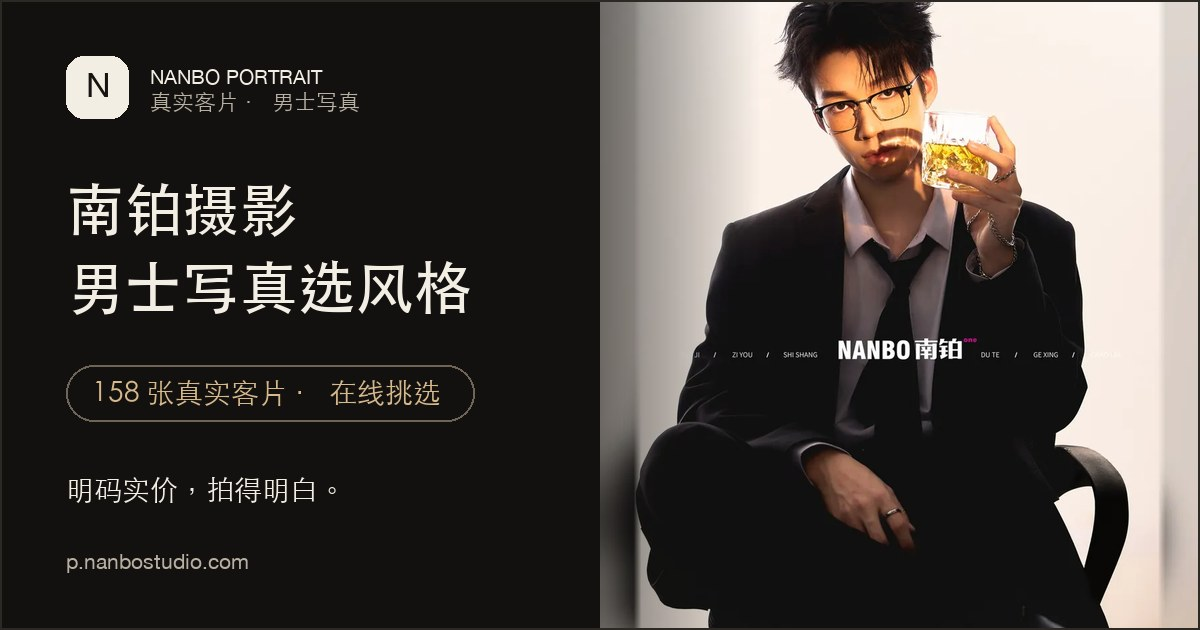
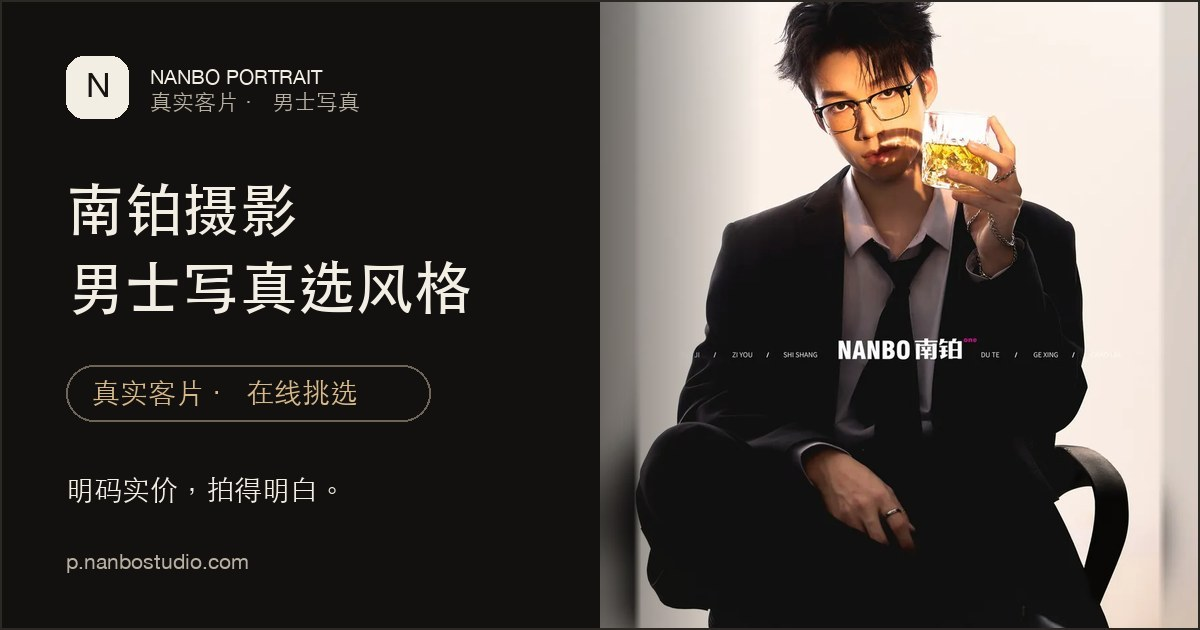
fix: remove changing photo count from share card

Changed region(s): [[0.0617, 0.573, 0.37, 0.6937]]

diff --git a/docs/p/index.html b/docs/p/index.html
@@ -9,29 +9,29 @@
     <meta property="og:type" content="website" />
     <meta property="og:site_name" content="南铂摄影" />
     <meta property="og:locale" content="zh_CN" />
-    <meta property="og:title" content="南铂摄影｜158 张真实客片选风格" />
+    <meta property="og:title" content="南铂摄影｜真实客片选风格" />
     <meta property="og:description" content="浏览真实男士客片，挑选喜欢的场景与主题，生成你的拍摄需求。" />
     <meta property="og:url" content="https://p.nanbostudio.com/" />
-    <meta property="og:image" content="https://p.nanbostudio.com/projects/portfolio-v2/share-card.jpg?v=pv2-af6f3256092a" />
-    <meta property="og:image:secure_url" content="https://p.nanbostudio.com/projects/portfolio-v2/share-card.jpg?v=pv2-af6f3256092a" />
+    <meta property="og:image" content="https://p.nanbostudio.com/projects/portfolio-v2/share-card.jpg?v=pv2-564a3292a6c0" />
+    <meta property="og:image:secure_url" content="https://p.nanbostudio.com/projects/portfolio-v2/share-card.jpg?v=pv2-564a3292a6c0" />
     <meta property="og:image:type" content="image/jpeg" />
     <meta property="og:image:width" content="1200" />
     <meta property="og:image:height" content="630" />
     <meta property="og:image:alt" content="南铂摄影男士写真真实客片选风格" />
     <meta name="twitter:card" content="summary_large_image" />
-    <meta name="twitter:title" content="南铂摄影｜158 张真实客片选风格" />
+    <meta name="twitter:title" content="南铂摄影｜真实客片选风格" />
     <meta name="twitter:description" content="浏览真实男士客片，挑选喜欢的场景与主题。" />
-    <meta name="twitter:image" content="https://p.nanbostudio.com/projects/portfolio-v2/share-card.jpg?v=pv2-af6f3256092a" />
-    <meta itemprop="name" content="南铂摄影｜158 张真实客片选风格" />
+    <meta name="twitter:image" content="https://p.nanbostudio.com/projects/portfolio-v2/share-card.jpg?v=pv2-564a3292a6c0" />
+    <meta itemprop="name" content="南铂摄影｜真实客片选风格" />
     <meta itemprop="description" content="浏览真实男士客片，挑选喜欢的场景与主题。" />
-    <meta itemprop="image" content="https://p.nanbostudio.com/projects/portfolio-v2/share-card.jpg?v=pv2-af6f3256092a" />
-    <meta name="nbo-build-version" content="pv2-af6f3256092a" />
+    <meta itemprop="image" content="https://p.nanbostudio.com/projects/portfolio-v2/share-card.jpg?v=pv2-564a3292a6c0" />
+    <meta name="nbo-build-version" content="pv2-564a3292a6c0" />
     <title>南铂摄影｜男士写真选风格</title>
     <link rel="canonical" href="https://wdmm630202.github.io/nbo-smart-system/p/" />
-    <link rel="image_src" href="https://p.nanbostudio.com/projects/portfolio-v2/share-card.jpg?v=pv2-af6f3256092a" />
+    <link rel="image_src" href="https://p.nanbostudio.com/projects/portfolio-v2/share-card.jpg?v=pv2-564a3292a6c0" />
     <link rel="icon" href="favicon.svg" type="image/svg+xml" />
-    <link rel="preload" as="image" href="../portfolio/assets/photos/featured/photo-137.webp?v=pv2-af6f3256092a" type="image/webp" fetchpriority="high" />
-    <link rel="stylesheet" href="styles.css?v=pv2-af6f3256092a" />
+    <link rel="preload" as="image" href="../portfolio/assets/photos/featured/photo-137.webp?v=pv2-564a3292a6c0" type="image/webp" fetchpriority="high" />
+    <link rel="stylesheet" href="styles.css?v=pv2-564a3292a6c0" />
   </head>
   <body>
     <div class="app-shell">
@@ -45,7 +45,7 @@
 
       <main>
         <section class="campaign" aria-labelledby="page-title">
-          <img src="../portfolio/assets/photos/featured/photo-137.webp?v=pv2-af6f3256092a" width="900" height="1200" alt="南铂摄影代表性男士写真客片" fetchpriority="high" />
+          <img src="../portfolio/assets/photos/featured/photo-137.webp?v=pv2-564a3292a6c0" width="900" height="1200" alt="南铂摄影代表性男士写真客片" fetchpriority="high" />
           <div class="campaign-shade"></div>
           <div class="campaign-copy">
             <p>MEN'S PORTRAIT · 2026</p>
@@ -75,11 +75,11 @@
           </header>
           <div class="style-rail">
             <button class="style-card" type="button" data-scene-link="indoor">
-              <img src="../portfolio/assets/photos/thumbs/photo-137.webp?v=pv2-af6f3256092a" alt="商务质感男士写真" loading="lazy" />
+              <img src="../portfolio/assets/photos/thumbs/photo-137.webp?v=pv2-564a3292a6c0" alt="商务质感男士写真" loading="lazy" />
               <span><small>01 / INDOOR · 120 PHOTOS</small><strong>内景主题</strong><em>灯光可控 · 造型完整 · 13 个主题</em></span>
             </button>
             <button class="style-card" type="button" data-scene-link="outdoor">
-              <img src="../portfolio/assets/photos/thumbs/photo-111.webp?v=pv2-af6f3256092a" alt="城市机车外景男士写真" loading="lazy" />
+              <img src="../portfolio/assets/photos/thumbs/photo-111.webp?v=pv2-564a3292a6c0" alt="城市机车外景男士写真" loading="lazy" />
               <span><small>02 / OUTDOOR · 38 PHOTOS</small><strong>外景主题</strong><em>环境真实 · 行走自然 · 10 个主题</em></span>
             </button>
           </div>
@@ -105,7 +105,7 @@
             <h2>先凭感觉选，<br />我们再帮你落地。</h2>
             <span>你不需要懂摄影术语。喜欢哪张就点爱心，剩下的由南铂结合脸型、身材和使用场景来调整。</span>
           </div>
-          <div class="fit-photo"><img src="../portfolio/assets/photos/thumbs/photo-139.webp?v=pv2-af6f3256092a" alt="南铂男士写真示例" loading="lazy" /></div>
+          <div class="fit-photo"><img src="../portfolio/assets/photos/thumbs/photo-139.webp?v=pv2-564a3292a6c0" alt="南铂男士写真示例" loading="lazy" /></div>
         </section>
 
         <section class="works" id="works" aria-labelledby="works-title">
@@ -208,6 +208,6 @@
     </div>
     <div class="toast" id="toast" role="status" aria-live="polite"></div>
     <noscript><p class="noscript">请开启 JavaScript 后浏览完整客片。</p></noscript>
-    <script type="module" src="app.js?v=pv2-af6f3256092a"></script>
+    <script type="module" src="app.js?v=pv2-564a3292a6c0"></script>
   </body>
 </html>

diff --git a/docs/projects/portfolio-v2/index.html b/docs/projects/portfolio-v2/index.html
@@ -8,29 +8,29 @@
     <meta property="og:type" content="website" />
     <meta property="og:site_name" content="南铂摄影" />
     <meta property="og:locale" content="zh_CN" />
-    <meta property="og:title" content="南铂摄影｜158 张真实客片选风格" />
+    <meta property="og:title" content="南铂摄影｜真实客片选风格" />
     <meta property="og:description" content="浏览真实男士客片，挑选喜欢的场景与主题，生成你的拍摄需求。" />
     <meta property="og:url" content="https://p.nanbostudio.com/" />
-    <meta property="og:image" content="https://p.nanbostudio.com/projects/portfolio-v2/share-card.jpg?v=pv2-af6f3256092a" />
-    <meta property="og:image:secure_url" content="https://p.nanbostudio.com/projects/portfolio-v2/share-card.jpg?v=pv2-af6f3256092a" />
+    <meta property="og:image" content="https://p.nanbostudio.com/projects/portfolio-v2/share-card.jpg?v=pv2-564a3292a6c0" />
+    <meta property="og:image:secure_url" content="https://p.nanbostudio.com/projects/portfolio-v2/share-card.jpg?v=pv2-564a3292a6c0" />
     <meta property="og:image:type" content="image/jpeg" />
     <meta property="og:image:width" content="1200" />
     <meta property="og:image:height" content="630" />
     <meta property="og:image:alt" content="南铂摄影男士写真真实客片选风格" />
     <meta name="twitter:card" content="summary_large_image" />
-    <meta name="twitter:title" content="南铂摄影｜158 张真实客片选风格" />
+    <meta name="twitter:title" content="南铂摄影｜真实客片选风格" />
     <meta name="twitter:description" content="浏览真实男士客片，挑选喜欢的场景与主题。" />
-    <meta name="twitter:image" content="https://p.nanbostudio.com/projects/portfolio-v2/share-card.jpg?v=pv2-af6f3256092a" />
-    <meta itemprop="name" content="南铂摄影｜158 张真实客片选风格" />
+    <meta name="twitter:image" content="https://p.nanbostudio.com/projects/portfolio-v2/share-card.jpg?v=pv2-564a3292a6c0" />
+    <meta itemprop="name" content="南铂摄影｜真实客片选风格" />
     <meta itemprop="description" content="浏览真实男士客片，挑选喜欢的场景与主题。" />
-    <meta itemprop="image" content="https://p.nanbostudio.com/projects/portfolio-v2/share-card.jpg?v=pv2-af6f3256092a" />
-    <meta name="nbo-build-version" content="pv2-af6f3256092a" />
+    <meta itemprop="image" content="https://p.nanbostudio.com/projects/portfolio-v2/share-card.jpg?v=pv2-564a3292a6c0" />
+    <meta name="nbo-build-version" content="pv2-564a3292a6c0" />
     <title>南铂摄影｜男士写真选风格</title>
     <link rel="canonical" href="https://wdmm630202.github.io/nbo-smart-system/p/" />
-    <link rel="image_src" href="https://p.nanbostudio.com/projects/portfolio-v2/share-card.jpg?v=pv2-af6f3256092a" />
+    <link rel="image_src" href="https://p.nanbostudio.com/projects/portfolio-v2/share-card.jpg?v=pv2-564a3292a6c0" />
     <link rel="icon" href="favicon.svg" type="image/svg+xml" />
-    <link rel="preload" as="image" href="../portfolio/assets/photos/featured/photo-137.webp?v=pv2-af6f3256092a" type="image/webp" fetchpriority="high" />
-    <link rel="stylesheet" href="styles.css?v=pv2-af6f3256092a" />
+    <link rel="preload" as="image" href="../portfolio/assets/photos/featured/photo-137.webp?v=pv2-564a3292a6c0" type="image/webp" fetchpriority="high" />
+    <link rel="stylesheet" href="styles.css?v=pv2-564a3292a6c0" />
   </head>
   <body>
     <div class="app-shell">
@@ -44,7 +44,7 @@
 
       <main>
         <section class="campaign" aria-labelledby="page-title">
-          <img src="../portfolio/assets/photos/featured/photo-137.webp?v=pv2-af6f3256092a" width="900" height="1200" alt="南铂摄影代表性男士写真客片" fetchpriority="high" />
+          <img src="../portfolio/assets/photos/featured/photo-137.webp?v=pv2-564a3292a6c0" width="900" height="1200" alt="南铂摄影代表性男士写真客片" fetchpriority="high" />
           <div class="campaign-shade"></div>
           <div class="campaign-copy">
             <p>MEN'S PORTRAIT · 2026</p>
@@ -74,11 +74,11 @@
           </header>
           <div class="style-rail">
             <button class="style-card" type="button" data-scene-link="indoor">
-              <img src="../portfolio/assets/photos/thumbs/photo-137.webp?v=pv2-af6f3256092a" alt="商务质感男士写真" loading="lazy" />
+              <img src="../portfolio/assets/photos/thumbs/photo-137.webp?v=pv2-564a3292a6c0" alt="商务质感男士写真" loading="lazy" />
               <span><small>01 / INDOOR · 120 PHOTOS</small><strong>内景主题</strong><em>灯光可控 · 造型完整 · 13 个主题</em></span>
             </button>
             <button class="style-card" type="button" data-scene-link="outdoor">
-              <img src="../portfolio/assets/photos/thumbs/photo-111.webp?v=pv2-af6f3256092a" alt="城市机车外景男士写真" loading="lazy" />
+              <img src="../portfolio/assets/photos/thumbs/photo-111.webp?v=pv2-564a3292a6c0" alt="城市机车外景男士写真" loading="lazy" />
               <span><small>02 / OUTDOOR · 38 PHOTOS</small><strong>外景主题</strong><em>环境真实 · 行走自然 · 10 个主题</em></span>
             </button>
           </div>
@@ -104,7 +104,7 @@
             <h2>先凭感觉选，<br />我们再帮你落地。</h2>
             <span>你不需要懂摄影术语。喜欢哪张就点爱心，剩下的由南铂结合脸型、身材和使用场景来调整。</span>
           </div>
-          <div class="fit-photo"><img src="../portfolio/assets/photos/thumbs/photo-139.webp?v=pv2-af6f3256092a" alt="南铂男士写真示例" loading="lazy" /></div>
+          <div class="fit-photo"><img src="../portfolio/assets/photos/thumbs/photo-139.webp?v=pv2-564a3292a6c0" alt="南铂男士写真示例" loading="lazy" /></div>
         </section>
 
         <section class="works" id="works" aria-labelledby="works-title">
@@ -207,6 +207,6 @@
     </div>
     <div class="toast" id="toast" role="status" aria-live="polite"></div>
     <noscript><p class="noscript">请开启 JavaScript 后浏览完整客片。</p></noscript>
-    <script type="module" src="app.js?v=pv2-af6f3256092a"></script>
+    <script type="module" src="app.js?v=pv2-564a3292a6c0"></script>
   </body>
 </html>

diff --git a/apps/portfolio-v2/index.html b/apps/portfolio-v2/index.html
@@ -8,7 +8,7 @@
     <meta property="og:type" content="website" />
     <meta property="og:site_name" content="南铂摄影" />
     <meta property="og:locale" content="zh_CN" />
-    <meta property="og:title" content="南铂摄影｜158 张真实客片选风格" />
+    <meta property="og:title" content="南铂摄影｜真实客片选风格" />
     <meta property="og:description" content="浏览真实男士客片，挑选喜欢的场景与主题，生成你的拍摄需求。" />
     <meta property="og:url" content="https://p.nanbostudio.com/" />
     <meta property="og:image" content="https://p.nanbostudio.com/projects/portfolio-v2/share-card.jpg?v=__NBO_BUILD_VERSION__" />
@@ -18,10 +18,10 @@
     <meta property="og:image:height" content="630" />
     <meta property="og:image:alt" content="南铂摄影男士写真真实客片选风格" />
     <meta name="twitter:card" content="summary_large_image" />
-    <meta name="twitter:title" content="南铂摄影｜158 张真实客片选风格" />
+    <meta name="twitter:title" content="南铂摄影｜真实客片选风格" />
     <meta name="twitter:description" content="浏览真实男士客片，挑选喜欢的场景与主题。" />
     <meta name="twitter:image" content="https://p.nanbostudio.com/projects/portfolio-v2/share-card.jpg?v=__NBO_BUILD_VERSION__" />
-    <meta itemprop="name" content="南铂摄影｜158 张真实客片选风格" />
+    <meta itemprop="name" content="南铂摄影｜真实客片选风格" />
     <meta itemprop="description" content="浏览真实男士客片，挑选喜欢的场景与主题。" />
     <meta itemprop="image" content="https://p.nanbostudio.com/projects/portfolio-v2/share-card.jpg?v=__NBO_BUILD_VERSION__" />
     <meta name="nbo-build-version" content="__NBO_BUILD_VERSION__" />

diff --git a/docs/i/index.html b/docs/i/index.html
@@ -9,8 +9,8 @@
   <meta http-equiv="Content-Security-Policy" content="default-src 'self'; connect-src https://nanbo-digital-systems.wdmm630202.chatgpt.site; img-src 'self' data:; style-src 'self'; script-src 'self'; base-uri 'none'; form-action 'self'">
   <title>客户浏览与成交信号 · 南铂摄影</title>
   <link rel="icon" href="../icon.png">
-  <link rel="stylesheet" href="styles.css?v=pv2-af6f3256092a">
-  <script src="app.js?v=pv2-af6f3256092a" defer></script>
+  <link rel="stylesheet" href="styles.css?v=pv2-564a3292a6c0">
+  <script src="app.js?v=pv2-564a3292a6c0" defer></script>
 </head>
 <body>
   <main class="insights-shell">

diff --git a/docs/projects/portfolio-v2/app.js b/docs/projects/portfolio-v2/app.js
@@ -1,6 +1,6 @@
-import { buildPortfolioItems, portfolioCatalog } from "./catalog.js?v=pv2-af6f3256092a";
+import { buildPortfolioItems, portfolioCatalog } from "./catalog.js?v=pv2-564a3292a6c0";
 
-const embeddedBuildVersion = "pv2-af6f3256092a";
+const embeddedBuildVersion = "pv2-564a3292a6c0";
 const requestedBuildVersion = new URLSearchParams(window.location.search).get("v") || "";
 const isLocalSourceBuild = embeddedBuildVersion.startsWith("__");
 const buildVersion = isLocalSourceBuild ? requestedBuildVersion || "local" : embeddedBuildVersion;
